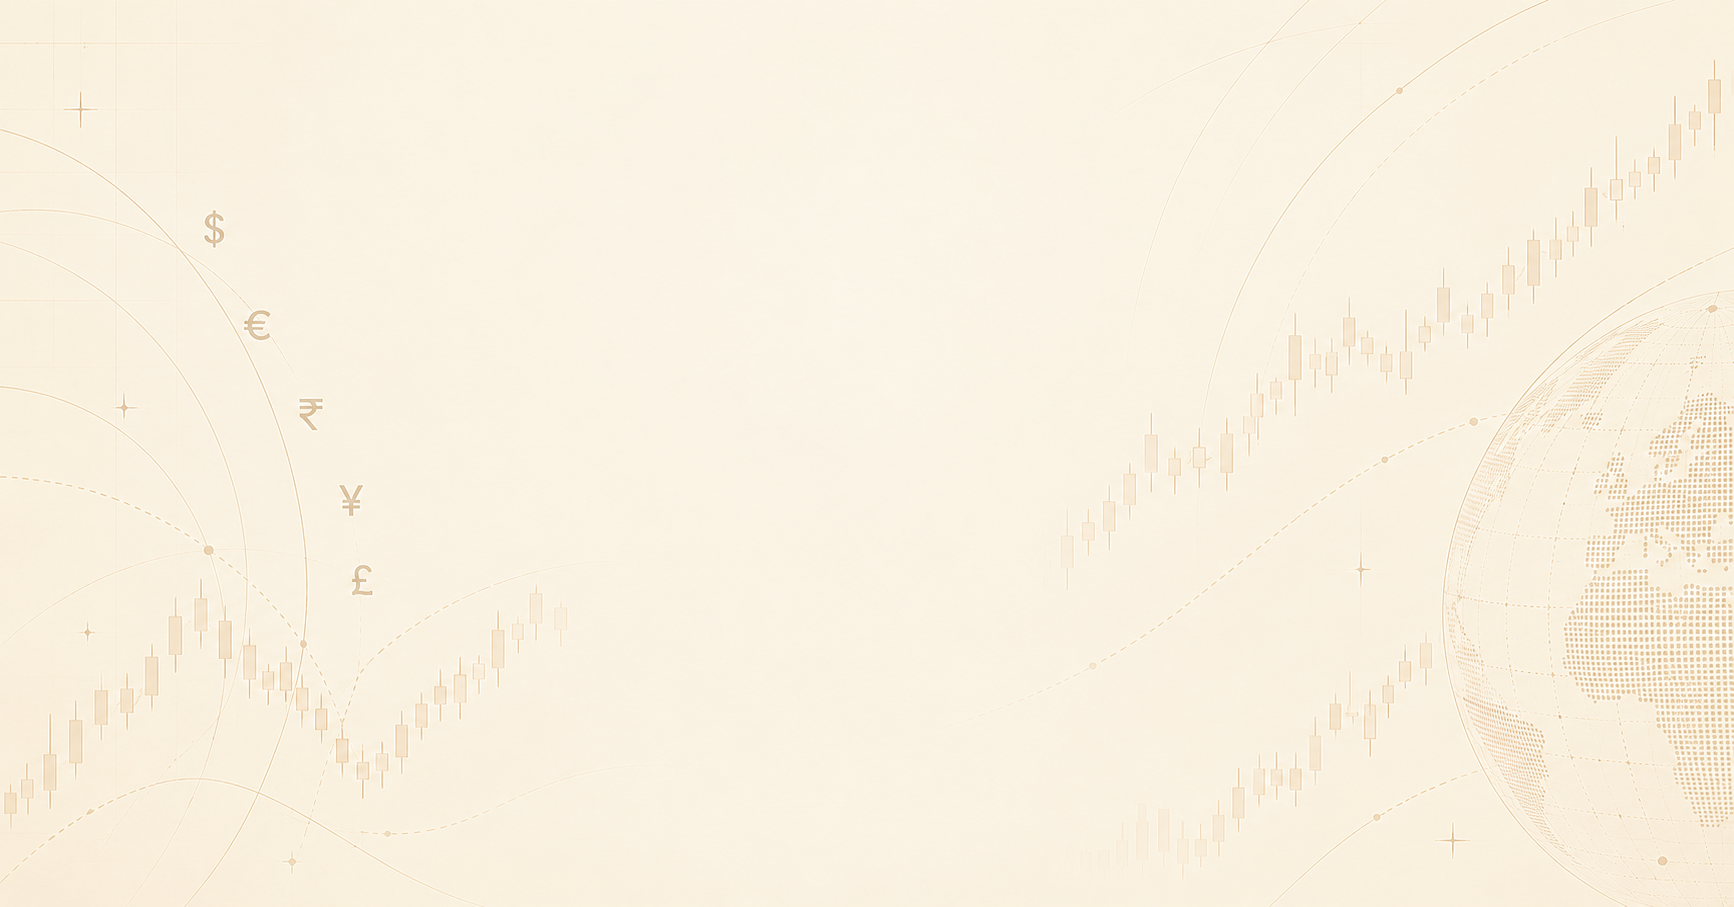
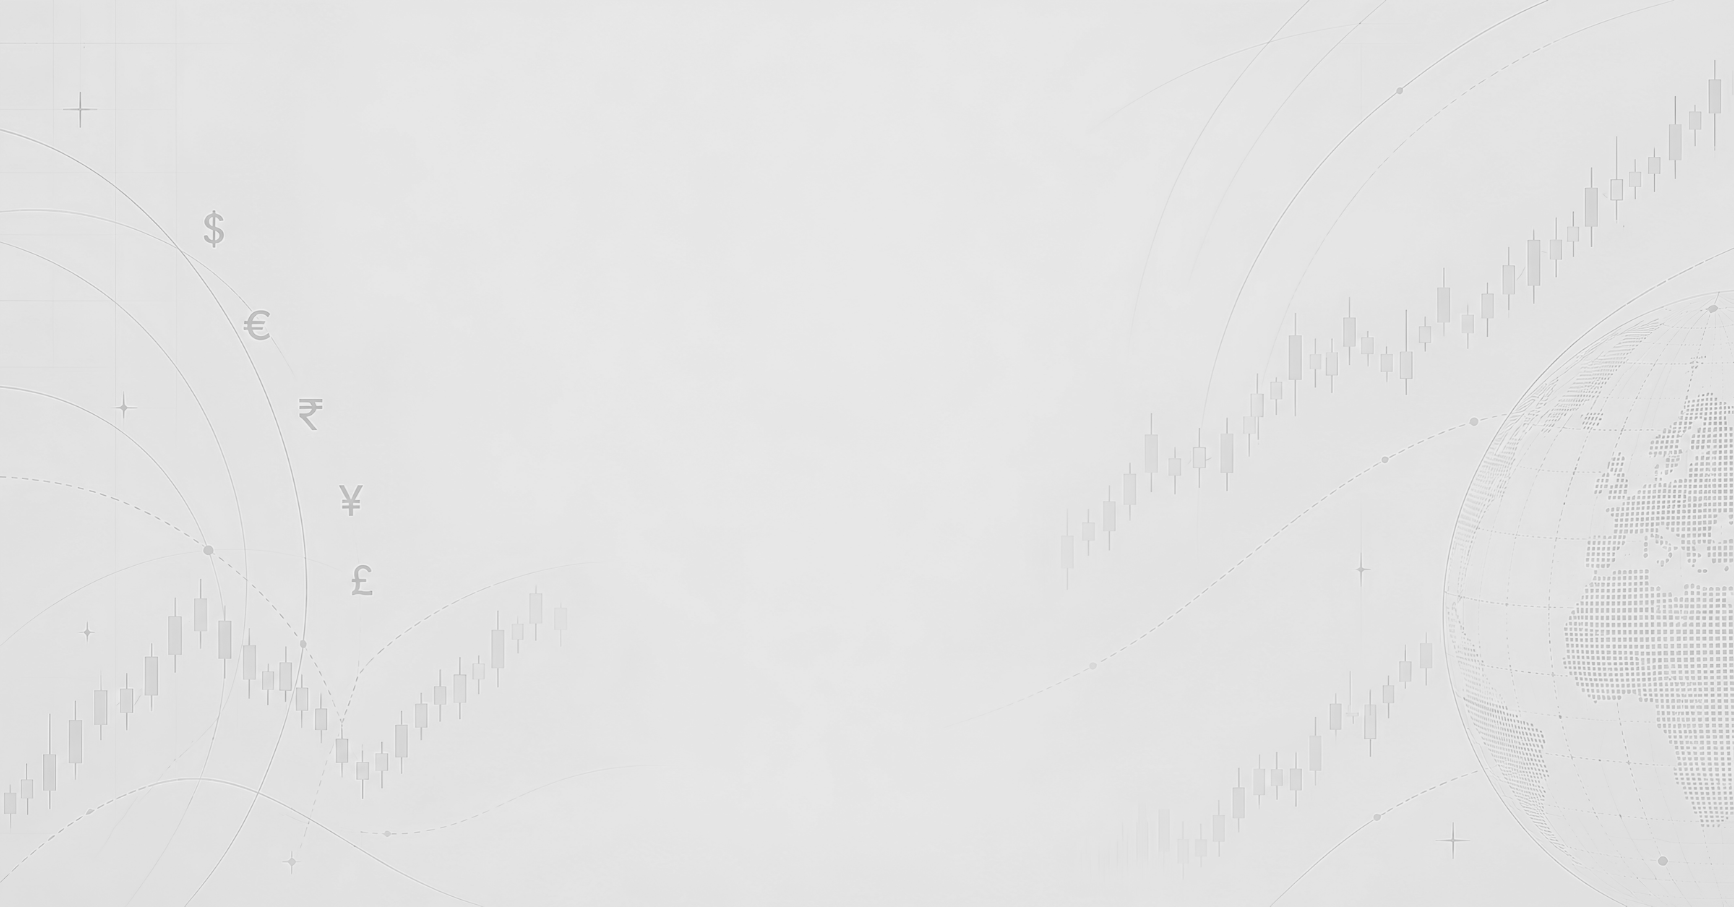
updated 03 section

diff --git a/src/app/globals.css b/src/app/globals.css
@@ -2208,3 +2208,60 @@ input:-webkit-autofill,input:-webkit-autofill:hover,input:-webkit-autofill:focus
 .course-enroll-unavailable p{margin:0;font-size:13px;line-height:1.5}
 .course-claims-note{margin-block:24px}
 .course-claims-note p{margin:7px 0 0;line-height:1.65}
+
+/* Homepage course accordion, styled to match the reference list. */
+.homepage-main .courses-section{width:100%;max-width:none;margin:0;padding:clamp(72px,8vw,112px) max(24px,calc((100vw - 1360px)/2)) clamp(78px,8vw,116px)}
+.homepage-main .courses-section>.section-kicker{font-size:11px;color:#62616a;letter-spacing:.1em}
+.homepage-main .courses-section>.section-kicker span:first-child::before{display:none}
+.homepage-main .courses-section .section-title-row{margin-top:42px}
+.homepage-main .courses-section .section-title-row h2{font:400 clamp(42px,5.2vw,68px)/1.02 var(--serif);letter-spacing:-.055em}
+.homepage-main .courses-section .section-title-row h2 em{font-style:italic}
+.homepage-main .courses-section .section-lead{margin:14px 0 36px;color:#676670;font-size:14px;font-weight:400}
+.home-course-list{display:block;margin:0 0 30px;padding:0;list-style:none;border-top:1px solid rgba(25,25,35,.3)}
+.home-course-item{border-bottom:1px solid rgba(25,25,35,.2)}
+.home-course-trigger{display:grid;width:100%;grid-template-columns: minmax(42px,6.5vw) minmax(0,1fr) minmax(170px,auto) 30px;gap:14px;align-items:center;min-height:clamp(76px,8vw,112px);padding:10px 0;border:0;background:transparent;color:var(--ink);text-align:left;cursor:pointer}
+.home-course-number{font:500 12px var(--display);color:#66656e;font-variant-numeric:tabular-nums}
+.home-course-trigger strong{font:400 clamp(33px,4.2vw,66px)/1.05 var(--serif);letter-spacing:-.055em;transition:color .24s,transform .24s}
+.home-course-meta{display:flex;justify-content:flex-end;align-items:center;gap:12px;color:#66656e;font:500 12px var(--display);letter-spacing:.015em;text-transform:capitalize;white-space:nowrap}
+.home-course-meta i{font-style:normal}
+.home-course-plus{justify-self:end;transition:transform .24s,color .24s;stroke-width:1.7}
+.home-course-trigger:hover strong,.home-course-trigger:focus-visible strong,.home-course-item.is-open .home-course-trigger strong{color:#ed8025;transform:translateX(9px)}
+.home-course-trigger:hover .home-course-plus,.home-course-trigger:focus-visible .home-course-plus{color:#ed8025}
+.home-course-item.is-open .home-course-plus{transform:rotate(45deg)}
+.home-course-trigger:focus-visible{outline:2px solid #ed8025;outline-offset:3px}
+.home-course-detail{display:flex;justify-content:space-between;align-items:flex-end;gap:28px;padding:2px 44px 26px max(56px,6.5vw);color:#66656e;font-size:13px;line-height:1.65}
+.home-course-detail[hidden]{display:none}
+.home-course-detail p{margin:0 0 8px}
+.home-course-detail .home-course-tagline{color:var(--ink);font:italic 22px var(--serif)}
+.home-course-detail ul{display:grid;gap:5px;margin:0;padding-left:18px}
+.home-course-detail-link{display:inline-flex;align-items:center;gap:9px;flex:0 0 auto;color:var(--ink);font-weight:600;border-bottom:1px solid rgba(25,25,35,.35);padding-bottom:6px}
+.home-course-detail-link:hover{color:#ed8025}
+.homepage-main .home-courses-cta{margin-top:4px}
+@media(max-width:700px){.home-course-trigger{grid-template-columns:32px minmax(0,1fr) 24px;gap:9px;min-height:76px}.home-course-trigger strong{font-size:clamp(25px,7vw,40px)}.home-course-meta{grid-column:2;grid-row:2;justify-content:flex-start;font-size:10px;margin-top:-15px}.home-course-plus{grid-column:3;grid-row:1 / span 2}.home-course-detail{display:block;padding:0 4px 23px 42px;font-size:12px}.home-course-detail-link{margin-top:16px}.homepage-main .courses-section .section-lead{font-size:12px}}
+.home-course-list .home-course-item{display:block;min-height:0;color:inherit}
+.home-course-list .home-course-trigger>.home-course-number{color:#66656e;font:500 12px var(--display);font-variant-numeric:tabular-nums}
+.home-course-list .home-course-trigger strong{font:400 clamp(33px,4.2vw,66px)/1.05 var(--serif);letter-spacing:-.055em;color:var(--ink)}
+.home-course-list .home-course-trigger>.home-course-plus{color:var(--ink)}
+.home-course-list .home-course-meta{color:#66656e;font:500 12px var(--display);text-transform:capitalize}
+.home-course-list .home-course-trigger:hover strong,.home-course-list .home-course-trigger:focus-visible strong,.home-course-list .home-course-item.is-open .home-course-trigger strong{color:#ed8025}
+@media(max-width:700px){.home-course-list .home-course-trigger strong{font-size:clamp(25px,7vw,40px)}}
+
+/* Keep expanded course information readable and ordered at every width. */
+.home-course-list .home-course-item.is-open{background:var(--paper)}
+.home-course-list .home-course-item.is-open .home-course-trigger{padding-inline:0}
+.home-course-detail{display:grid;grid-template-columns:minmax(260px,.95fr) minmax(360px,1.2fr) minmax(150px,.35fr);gap:clamp(24px,4vw,64px);align-items:start;width:100%;padding:28px 2.2vw 34px max(56px,6.5vw);background:var(--paper);border-top:1px solid rgba(25,25,35,.16);color:#66656e;font-size:14px;line-height:1.55}
+.home-course-detail[hidden]{display:none}
+.home-course-summary{align-self:stretch;display:flex;flex-direction:column;justify-content:space-between;gap:24px;padding-right:20px;border-bottom:2px solid var(--orange)}
+.home-course-detail .home-course-tagline{max-width:520px;margin:0;color:var(--ink);font:400 clamp(30px,4vw,56px)/1.08 var(--serif);letter-spacing:-.045em}
+.home-course-summary>span{padding-bottom:20px;color:#76747d;font-size:12px}
+.home-course-outcomes h3,.home-course-enrollment>span{margin:0 0 18px;color:#74727b;font:600 11px var(--display);letter-spacing:.16em;text-transform:uppercase}
+.home-course-detail ul{display:grid;gap:14px;margin:0;padding:0;list-style:none}
+.home-course-detail li{position:relative;padding-left:25px;color:var(--ink);font-size:15px;line-height:1.55}
+.home-course-detail li::before{content:"↗";position:absolute;left:0;top:0;color:var(--orange);font-size:15px}
+.home-course-enrollment{display:flex;flex-direction:column;align-items:flex-start;gap:18px}
+.home-course-enrollment>span{margin:0}
+.home-course-enrollment>strong{color:var(--ink);font:400 clamp(32px,3.5vw,48px)/1 var(--serif);letter-spacing:-.04em}
+.home-course-detail-link{margin-top:8px;padding:14px 18px;background:var(--orange);border:0;color:var(--ink);font-size:13px;font-weight:600}
+.home-course-detail-link:hover{background:#ed8f00;color:var(--ink)}
+@media(max-width:900px){.home-course-detail{grid-template-columns:minmax(0,.8fr) minmax(0,1.2fr);padding-left:52px}.home-course-enrollment{grid-column:2;display:grid;grid-template-columns:auto 1fr auto;align-items:center;gap:14px}.home-course-enrollment>span{margin:0}.home-course-enrollment>strong{font-size:32px}.home-course-detail-link{margin:0}}
+@media(max-width:600px){.home-course-detail{grid-template-columns:1fr;gap:26px;padding:22px 16px 28px 42px}.home-course-detail .home-course-tagline{font-size:34px}.home-course-summary{gap:12px}.home-course-summary>span{padding-bottom:14px}.home-course-outcomes h3,.home-course-enrollment>span{margin-bottom:12px}.home-course-detail ul{gap:11px}.home-course-detail li{font-size:14px}.home-course-enrollment{grid-column:auto;grid-template-columns:1fr auto;gap:12px}.home-course-enrollment>span{grid-column:1/-1}.home-course-enrollment>strong{font-size:36px}.home-course-detail-link{padding:12px 14px}}

diff --git a/src/app/page.tsx b/src/app/page.tsx
@@ -3,14 +3,13 @@ import Image from "next/image";
 import { ArrowRight, ArrowUpRight, ChartNoAxesColumnIncreasing, Globe2, Monitor, ShieldCheck } from "lucide-react";
 import { createPageMetadata } from "@/lib/seo";
 import { PublicMarketTicker } from "@/components/public-market-ticker";
+import { HomeCourses } from "@/components/home-courses";
 
 export const metadata = createPageMetadata({
   title: "Currency Education for Clearer Market Decisions",
   description: "Build a thoughtful understanding of currency and financial markets with Corpenta Global’s structured education, market context and risk-aware learning.",
   path: "/",
 });
-
-const courseNames=["MONEY CODE","MONEY MINDSET","CAPITAL SHIELD","CORPENTA WEALTH ARCHITECT","NISM CERTIFY","CORPENTA FUNDED","CRYPTO CODE"];
 
 export default async function Home() {
   return <main className="homepage-main">
@@ -52,7 +51,7 @@ export default async function Home() {
 
   <section className="method-section" data-market-scene="pairs"><div className="wrap method-inner"><div className="method-heading"><div className="section-kicker"><span>02 / HOW WE TEACH</span><span>A FRAMEWORK FOR LEARNING</span></div><h2>Build understanding<br/>that <em>travels with you.</em></h2><p>Good education creates better questions. Our learning journey is designed to make the unfamiliar more legible, one concept at a time.</p></div><div className="method-steps"><article><span>01</span><div><h3>Understand the context</h3><p>Learn the forces, language and market structure behind price movement.</p></div><ArrowUpRight size={17}/></article><article><span>02</span><div><h3>Develop a framework</h3><p>Explore repeatable ways to observe, plan and review decisions.</p></div><ArrowUpRight size={17}/></article><article><span>03</span><div><h3>Practice with perspective</h3><p>Build a reflective process that accounts for uncertainty and risk.</p></div><ArrowUpRight size={17}/></article></div></div></section>
 
-  <section className="courses-section wrap section-pad" data-market-scene="candles"><div className="section-kicker"><span>03 / THE ACADEMY</span><span>7 PROGRAMMES</span></div><div className="section-title-row"><h2>A place to <em>begin.</em></h2></div><p className="section-lead">Explore the Corpenta Global learning programmes.</p><ol className="home-course-list">{courseNames.map((name,index)=><li key={name}><span>{String(index+1).padStart(2,"0")}</span><strong>{name}</strong><ArrowUpRight size={16}/></li>)}</ol><Link className="button button-orange home-courses-cta" href="/courses">Explore Courses <ArrowRight size={17}/></Link></section>
+  <section className="courses-section wrap section-pad" data-market-scene="candles"><div className="section-kicker"><span>03 / COURSES</span><span>7 PROGRAMMES</span></div><div className="section-title-row"><h2>Find your place to <em>begin.</em></h2></div><p className="section-lead">Explore the Corpenta Global learning programmes.</p><HomeCourses/><Link className="button button-orange home-courses-cta" href="/courses">Explore Courses <ArrowRight size={17}/></Link></section>
 
   <section className="closing-section wrap" data-market-scene="ticker"><div className="closing-card"><div className="closing-orb"/><span className="eyebrow">BEGIN WITH A BETTER QUESTION</span><h2>Curiosity is a<br/><em>good first step.</em></h2><p>Explore the academy and find the learning path that fits your starting point.</p><Link className="button button-orange" href="/courses">Explore courses</Link><Image className="closing-company-logo" src="/logo.png" alt="Corpenta Global" width={393} height={350}/></div></section>
   </main>;

diff --git a/src/components/home-courses.tsx b/src/components/home-courses.tsx
@@ -1,0 +1,29 @@
+"use client";
+
+import { useState } from "react";
+import Link from "next/link";
+import { ArrowRight, Plus } from "lucide-react";
+import { courseCatalog } from "@/lib/course-catalog";
+
+export function HomeCourses() {
+  const [openCourse, setOpenCourse] = useState<string | null>(null);
+
+  return <ol className="home-course-list">
+    {courseCatalog.map((course, index) => {
+      const isOpen = openCourse === course.id;
+      return <li className={`home-course-item${isOpen ? " is-open" : ""}`} key={course.id}>
+        <button className="home-course-trigger" type="button" aria-expanded={isOpen} aria-controls={`course-detail-${course.id}`} onClick={() => setOpenCourse(isOpen ? null : course.id)}>
+          <span className="home-course-number">{String(index + 1).padStart(2, "0")}</span>
+          <strong>{course.title}</strong>
+          <span className="home-course-meta">{index < 2 ? "Foundations" : index < 4 ? "Markets & risk" : "Specialist"}<i>·</i>{course.duration}</span>
+          <Plus className="home-course-plus" size={25} aria-hidden="true" />
+        </button>
+        <div className="home-course-detail" id={`course-detail-${course.id}`} hidden={!isOpen}>
+          <div className="home-course-summary"><p className="home-course-tagline">{course.tagline}</p><span>{course.duration} · Self-paced learning</span></div>
+          <div className="home-course-outcomes"><h3>What you’ll learn</h3><ul>{course.outcomes.map((outcome) => <li key={outcome}>{outcome}</li>)}</ul></div>
+          <div className="home-course-enrollment"><span>Programme fee</span><strong>₹{new Intl.NumberFormat("en-IN").format(course.price)}</strong><Link href={`/courses/${course.id}`} className="home-course-detail-link">Course details <ArrowRight size={16}/></Link></div>
+        </div>
+      </li>;
+    })}
+  </ol>;
+}
